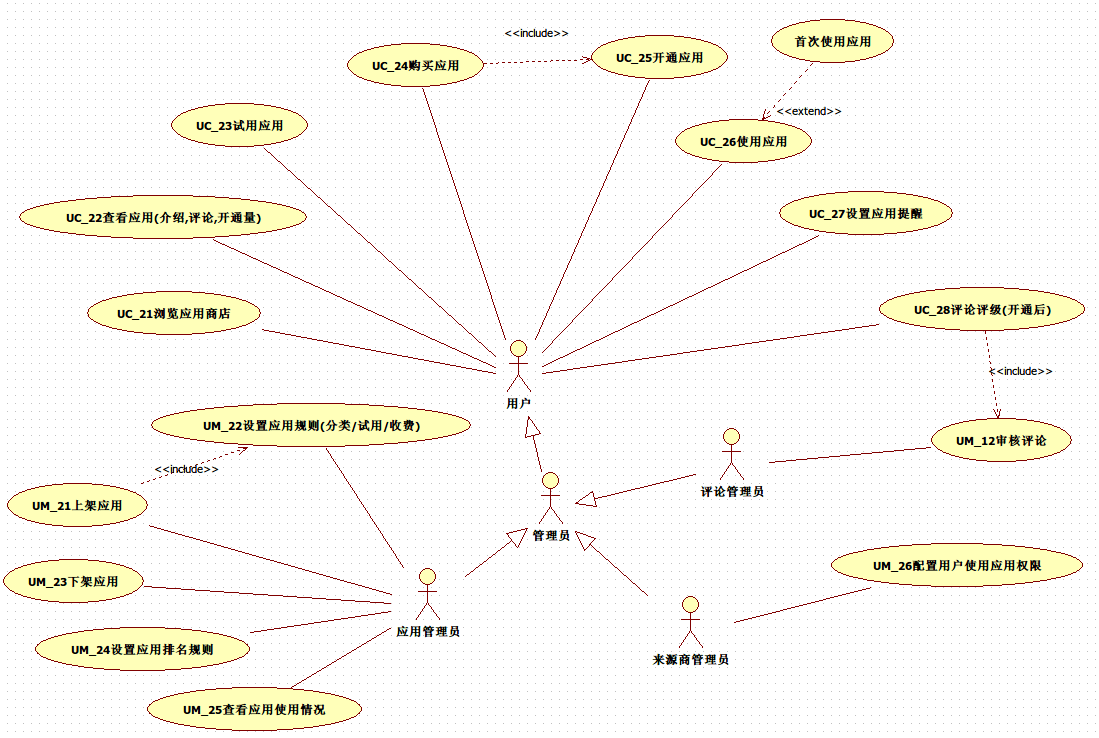
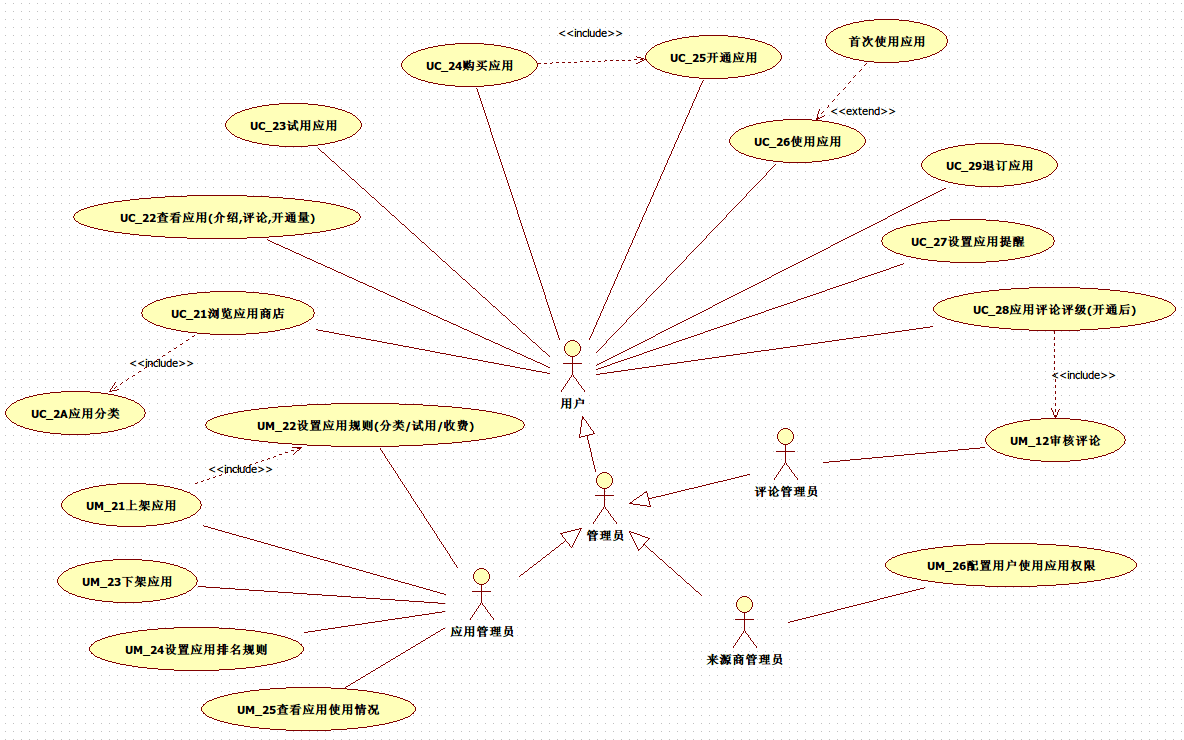
edit docs

diff --git a/docs/Skill/RenHealthInfrastructure.md b/docs/Skill/RenHealthInfrastructure.md
@@ -158,19 +158,21 @@ __讨论__
 
 ### UC_0E编辑个人信息
 ### UC_08设置密保
-
+### UC_0F修改密码
 ### UC_09找回密码
 
 ### UC_0A记住用户
 
 ### UC_0B登出
+### UC_0G站内搜索(全局)
+
 ### UM_01查看本来源用户信息(来源商)
 
 
 ## 领域模型
 使用四色来标识不同的类图，红色为过程化数据，跟时间维度相关，可用于踊跃，蓝色代表规则与配置，黄色代表角色（一个人可在不同角色间切换），绿色代表具体的人、地点、物等
 
-![img](../../imgs/ren_02.png)
+![img](../../imgs/ren_domain.png)
 
 本图只概念设计的一部分，更多的关注的是类型之间的关系，而不是具体类的属性与行为
 
@@ -178,19 +180,24 @@ __讨论__
 ===============
 ## 场景概述
 
-![img](../../imgs/ren_uc_society.png)
+![img](../../imgs/ren_uc_social.png)
 
 ### UC_11关注好友
 ### UC_1E查找用户
+### UC_1K拉入黑名单
 ### UC_12查看好友
 ### UC_13写留言
 ### UC_14写私信
 ### UC_15写发布
+### UC_1I分享到
+
 ### UC_16写回复
 ### UC_17查看动态
 ### UC_1F设置动态偏好
 ### UC_18查看推荐列表
 ### UC_1G设置推荐偏好
+### UC_1J查看系统提醒
+
 
 ### UC_19邀请好友
 __流程__
@@ -212,6 +219,8 @@ __规则__
 
 - 限制：时间、用户来源、用户特征
 
+### UC_1H退出圈子
+
 ### UM_11发布公告(管理员)
 ### UM_12审核评论(评论管理员)
 ### UM_13发布本来源用户消息(来源商)
@@ -222,6 +231,8 @@ __规则__
 ![img](../../imgs/ren_uc_appstore.png)
 
 ### UC_21浏览应用商店
+### UC_2A应用分类
+
 ### UC_22查看应用
 ### UC_23试用应用
 ### UC_24购买应用
@@ -251,7 +262,10 @@ __规则__
 - 应用要收集的数据描述
 
 ### UC_27设置应用提醒
-### UC_28评论评级
+### UC_28应用评论评级
+### UC_29退订应用
+
+
 
 ### UM_21上架应用
 
@@ -344,8 +358,7 @@ __规则__
 - 日志部分
 
 ## 标准化
-- url设计
-- @的机制
+- @用户、#话题 相关设计
 - 标准表情
 
 
